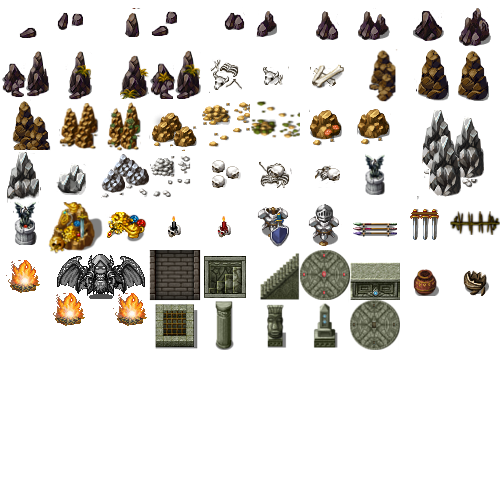
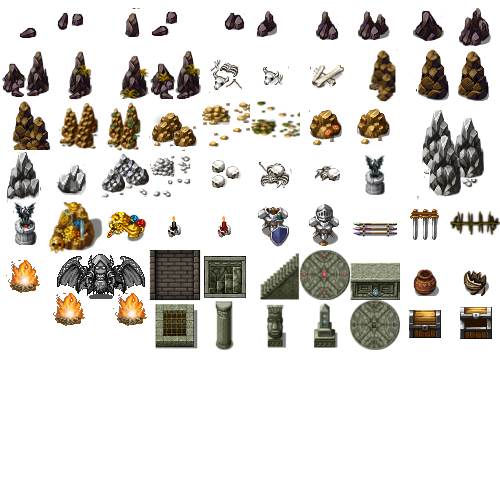
Intitial basic code for treasure chests

Changed region(s): [[0.81, 0.6, 0.99, 0.69]]

diff --git a/Divine Right/Objects/Items/Archetypes/Local/TreasureChest.cs b/Divine Right/Objects/Items/Archetypes/Local/TreasureChest.cs
@@ -1,0 +1,50 @@
+using DRObjects.Enums;
+using System;
+using System.Collections.Generic;
+using System.Linq;
+using System.Text;
+
+namespace DRObjects.Items.Archetypes.Local
+{
+    public class TreasureChest:
+        MapItem
+    {
+        /// <summary>
+        /// The items this chest contains
+        /// </summary>
+        public List<InventoryItem> Contents
+        {
+            get
+            {
+                if (contents == null)
+                {
+                    GenerateContents();
+                }
+
+                return contents;
+            }
+        }
+        /// <summary>
+        /// The categories this item is allowed to generate.
+        /// </summary>
+        public InventoryCategory[] Categories { get; set; }
+        /// <summary>
+        /// The total value of goods to create.
+        /// </summary>
+        public int TotalValue { get; set; }
+
+        private List<InventoryItem> contents = null;
+
+
+        /// <summary>
+        /// Generates the contents as per the allowed categories and value 
+        /// Works as follows - first picks a category at random and tries to spend all the money on it.
+        /// With the remainder will try to spend all the money on the second and third category at random.
+        /// </summary>
+        private void GenerateContents()
+        {
+
+        }
+
+    }
+}

diff --git a/Divine Right/Objects/Graphics/SpriteManager.cs b/Divine Right/Objects/Graphics/SpriteManager.cs
@@ -627,6 +627,8 @@ namespace DRObjects.Graphics
             localSprites[(int)LocalSpriteName.PILLAR_2] = new SpriteData(DUNGEON, new Rectangle(250, 300, 50, 50));
             localSprites[(int)LocalSpriteName.PILLAR_3] = new SpriteData(DUNGEON, new Rectangle(300, 300, 50, 50));
             localSprites[(int)LocalSpriteName.SUMMONING_CIRCLE_OFF] = new SpriteData(DUNGEON, new Rectangle(350, 300, 50, 50));
+            localSprites[(int)LocalSpriteName.TREASURE_CLOSED] = new SpriteData(DUNGEON, new Rectangle(400, 300, 50, 50));
+            localSprites[(int)LocalSpriteName.TREASURE_EMPTY] = new SpriteData(DUNGEON, new Rectangle(450, 300, 50, 50));
 
             localSprites[(int)LocalSpriteName.ENEMY_SKELETON] = new SpriteData(ENEMIES, new Rectangle(0, 0, 50, 50));
             localSprites[(int)LocalSpriteName.ENEMY_ORC_CIV] = new SpriteData(ENEMIES, new Rectangle(50, 0, 50, 50));

diff --git a/Divine Right/Objects/Graphics/LocalSpriteName.cs b/Divine Right/Objects/Graphics/LocalSpriteName.cs
@@ -647,6 +647,8 @@ namespace DRObjects.Graphics
         ZOMBIE_5,
         ZOMBIE_6,
         SUMMONING_CIRCLE_OFF,
+        TREASURE_CLOSED,
+        TREASURE_EMPTY,
 
     }
 }
